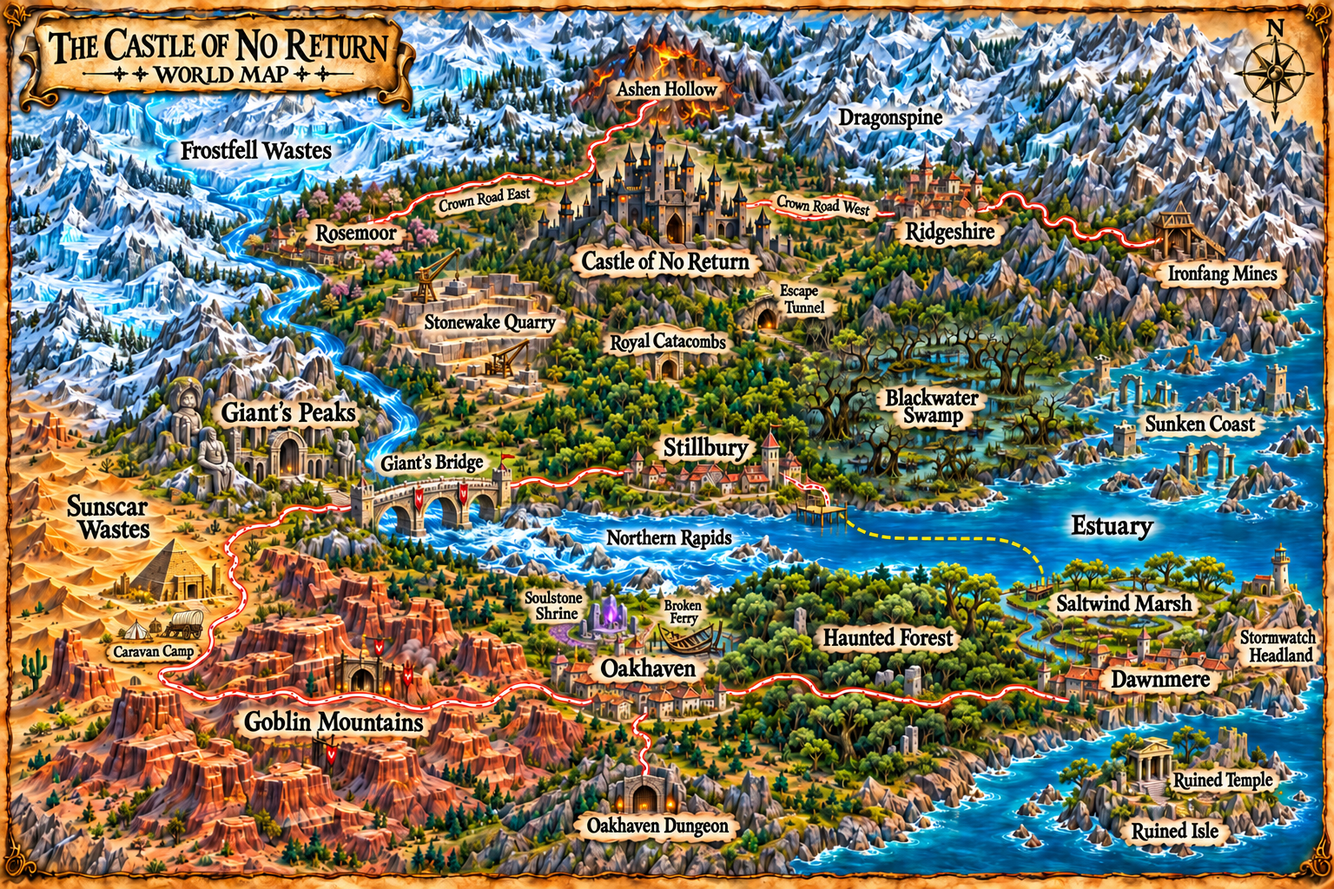
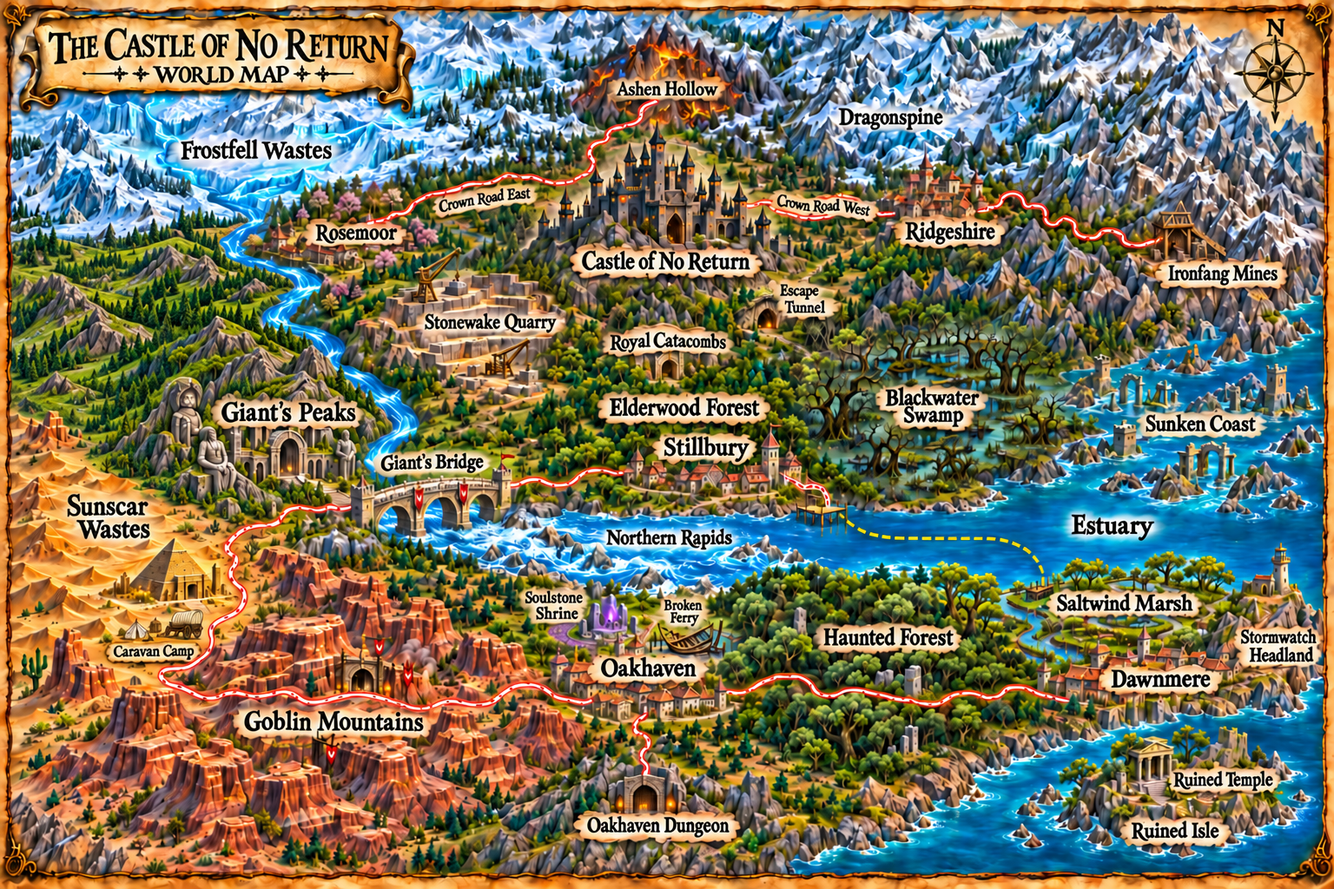
Restore elderwood label on map and resize frostfell

diff --git a/docs/map-refinements/world-map-prompt.md b/docs/map-refinements/world-map-prompt.md
@@ -1,0 +1,14 @@
+# Frostfell snowline and Elderwood label
+
+Generated with the built-in imagegen tool, editing the final `docs/world-map.png`.
+This revision supersedes the earlier instructions to extend Frostfell south and
+omit Elderwood's label. Frostfell stays north of snow-free Giant's Peaks, and
+the existing forest between Stillbury and the Royal Catacombs is Elderwood Forest.
+Roads and travel connections remain as depicted in the prior atlas.
+
+The selected output replaces `docs/world-map.png`. README's embedded image and
+click-through link retain that permanent filename with an updated SHA-256 query.
+
+## Prompt
+
+undefined

diff --git a/README.md b/README.md
@@ -49,7 +49,7 @@ present from the start; its services require a recruited companion.
 
 ## World Map
 
-[![Final world map of the Castle of No Return](docs/world-map.png?v=602dee3c0171)](docs/world-map.png?v=602dee3c0171)
+[![Final world map of the Castle of No Return](docs/world-map.png?v=b1d08eaa71ee)](docs/world-map.png?v=b1d08eaa71ee)
 
 The V2 starting region contains Oakhaven, Goblin Mountains to its west, Haunted
 Forest to its east, and Oakhaven's dungeon to its south. The north gate leads
